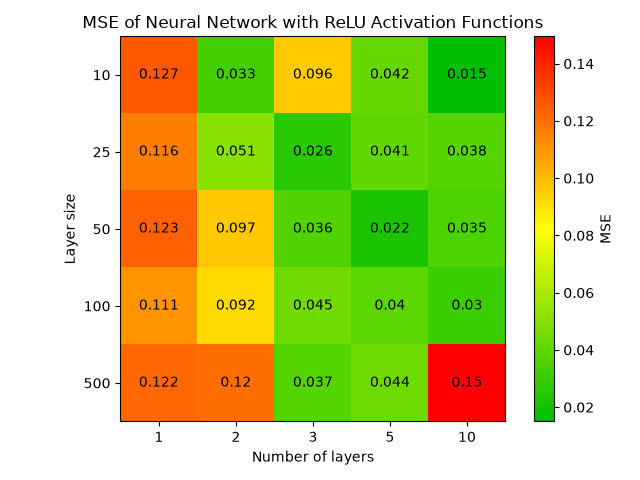
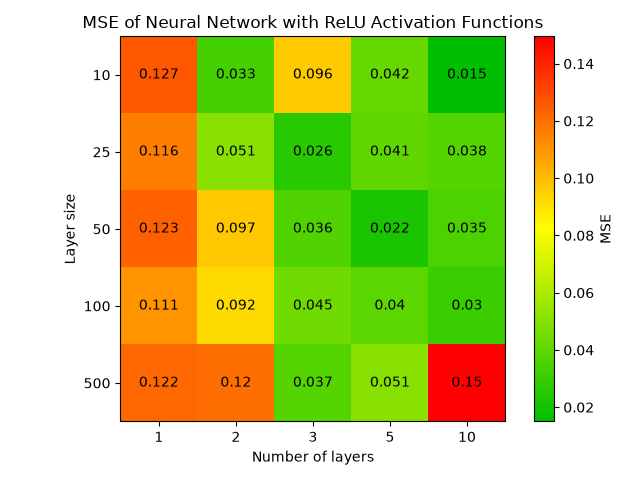
commited

Changed region(s): [[0.5312, 0.7188, 0.6875, 0.875]]

diff --git a/part_e/mnist_training.py b/part_e/mnist_training.py
@@ -4,6 +4,8 @@ from pathlib import Path
 sys.path.append(str(Path(__file__).resolve().parent.parent))
 sys.path.append("../")
 
+from part_c.funcs_depth_comparison import plot_heatmap
+
 import numpy as np
 np.set_printoptions(suppress=True)
 
@@ -136,14 +138,14 @@ print(
 # Loss curve
 # --------------------------------------------------
 
-plt.figure(figsize=(8, 6))
-plt.plot(losses)
-plt.xlabel("Epoch")
-plt.ylabel("Cross Entropy Loss")
-plt.title("Neural Network Training Loss")
-plt.grid(True)
-plt.savefig("results/mnist_loss.png", dpi=300)
-plt.show()
+#plt.figure(figsize=(8, 6))
+#plt.plot(losses)
+#plt.xlabel("Epoch")
+#plt.ylabel("Cross Entropy Loss")
+#plt.title("Neural Network Training Loss")
+#plt.grid(True)
+#plt.savefig("results/mnist_loss.png", dpi=300)
+#plt.show()
 
 # --------------------------------------------------
 # Logistic Regression comparison
@@ -170,3 +172,9 @@ plt.ylabel("Accuracy")
 plt.title("Logistic Regression Accuracy on MNIST")
 plt.savefig("results/mnist_logistic_accuracy.png", dpi=300)
 plt.show()
+
+n = 100
+r = 0.25
+epochs=100
+rng = np.random.default_rng(2026)
+plot_heatmap(n, r, epochs, [1, 2, 3, 5, 10], [100, 10], sigmoid, sigmoid_der, "MNIST Accuracy Heatmap", "results/mnist_accuracy_heatmap.png", rng)

diff --git a/part_c/funcs_depth_comparison.py b/part_c/funcs_depth_comparison.py
@@ -90,8 +90,8 @@ r = 0.25
 epochs=100
 layer_sizes = [10, 25, 50, 100, 500]
 
-plot_heatmap(n, r, epochs, [1, 2, 3, 5, 10], layer_sizes, sigmoid, sigmoid_der, "MSE of Neural Network with Sigmoid Activation Functions", "..//results//sigmoid_heatmap.png", rng)
+plot_heatmap(n, r, epochs, [1, 2, 3, 5, 10], layer_sizes, sigmoid, sigmoid_der, "MSE of Neural Network with Sigmoid Activation Functions", "results/sigmoid_heatmap.png", rng)
 rng = np.random.default_rng(2026)
-plot_heatmap(n, r, epochs, [1, 2, 3, 5, 10], layer_sizes, ReLU, ReLU_der, "MSE of Neural Network with ReLU Activation Functions", "..//results//relu_heatmap.png", rng)
+plot_heatmap(n, r, epochs, [1, 2, 3, 5, 10], layer_sizes, ReLU, ReLU_der, "MSE of Neural Network with ReLU Activation Functions", "results/relu_heatmap.png", rng)
 rng = np.random.default_rng(2026)
-plot_heatmap(n, r, epochs, [1, 2, 3, 5, 10], layer_sizes, LReLU, LReLU_der, "MSE of Neural Network with Leaky ReLU Activation Functions", "..//results//lrelu_heatmap.png", rng)
+plot_heatmap(n, r, epochs, [1, 2, 3, 5, 10], layer_sizes, LReLU, LReLU_der, "MSE of Neural Network with Leaky ReLU Activation Functions", "results/lrelu_heatmap.png", rng)
